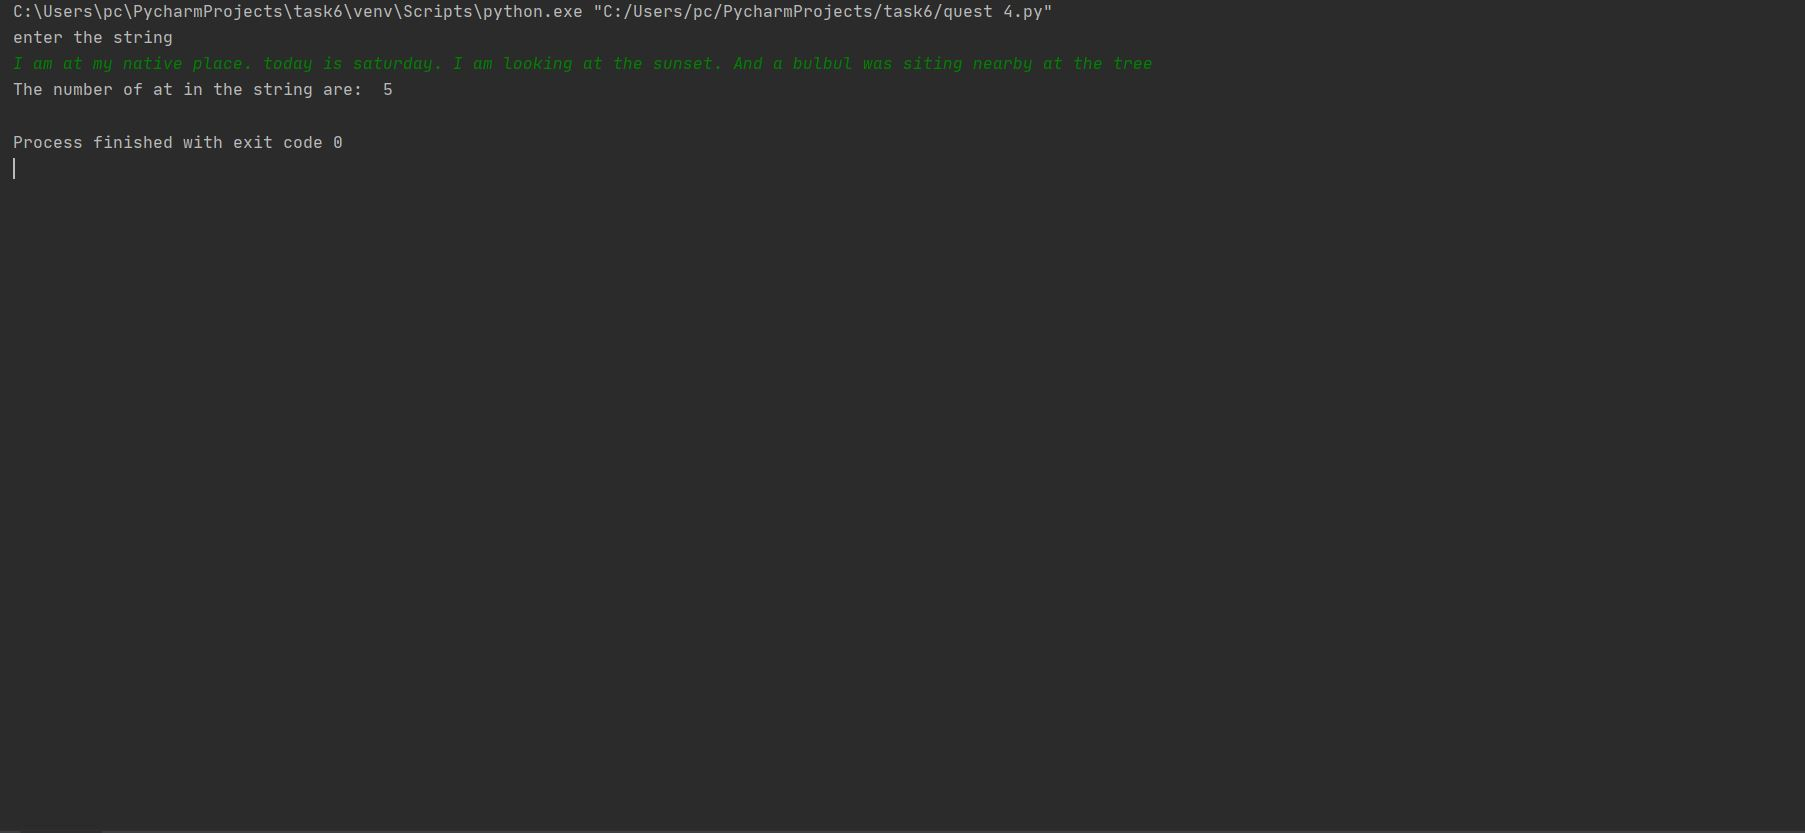
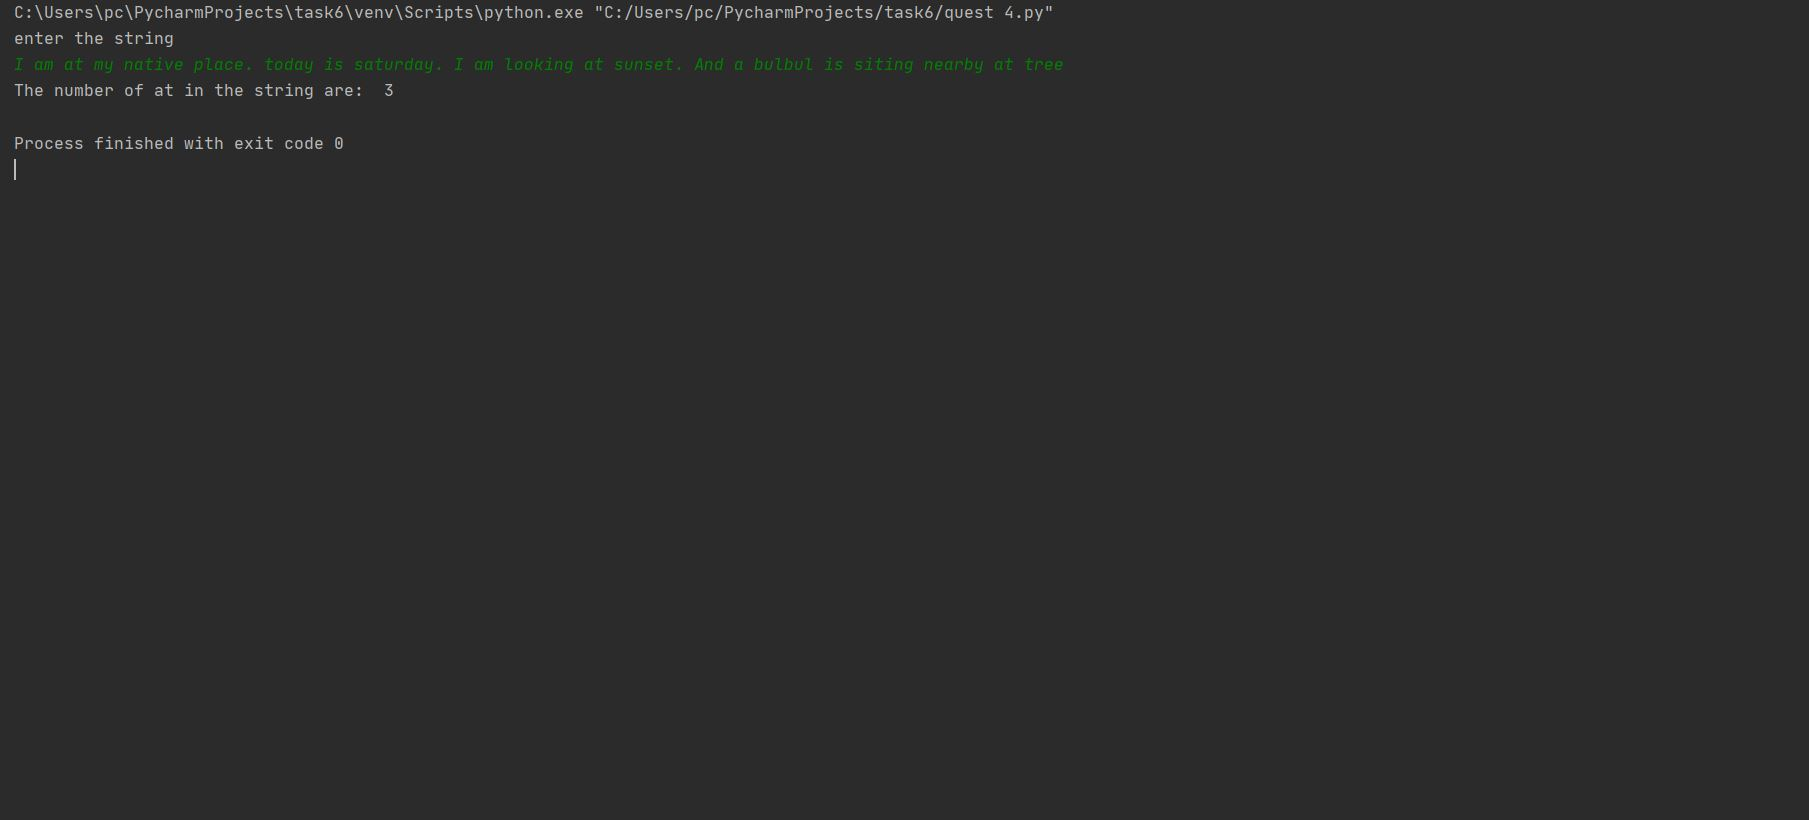
Task 6 Altered

diff --git a/Python_Task6/quest 6.py b/Python_Task6/quest 6.py
@@ -18,6 +18,12 @@ def findType(n):
 n = int(input("enter the times you want to enter the data\n"))
 for i in range(0,n,1):
     n = int(input("Enter the number\n"))
-    print(findType(n))
+    divType = findType(n)
+    if divType == 0:
+        print("Perfect Number\n")
+    elif divType == 1:
+        print("Deficient Number\n")
+    else:
+        print("Abundant Number\n")
 
 # -----------------------------------------------------END--------------------------------------------------------------

diff --git a/Python_Task6/quest 4.py b/Python_Task6/quest 4.py
@@ -9,7 +9,8 @@ countAt = 0
 for i in range(0,strLen,1):
     if strngInp[i] == 'a' or strngInp[i] == 'A':
         if strngInp[i+1] == 't' or strngInp[i+1] == 'T':
-            countAt = countAt + 1
+            if strngInp[i+2] == ' ':
+                countAt = countAt + 1
     else:
         continue
 
